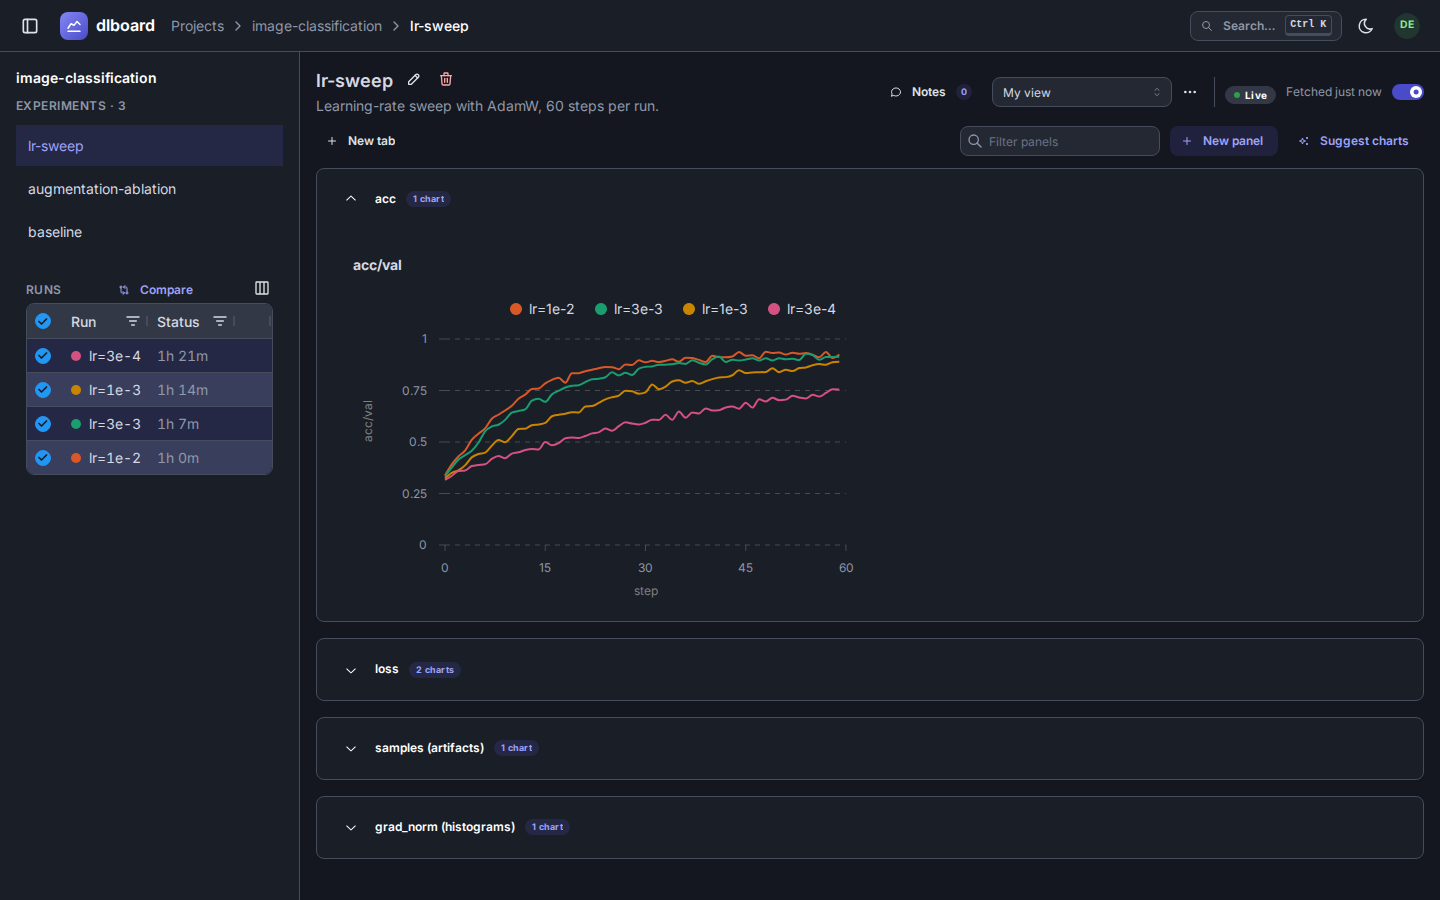
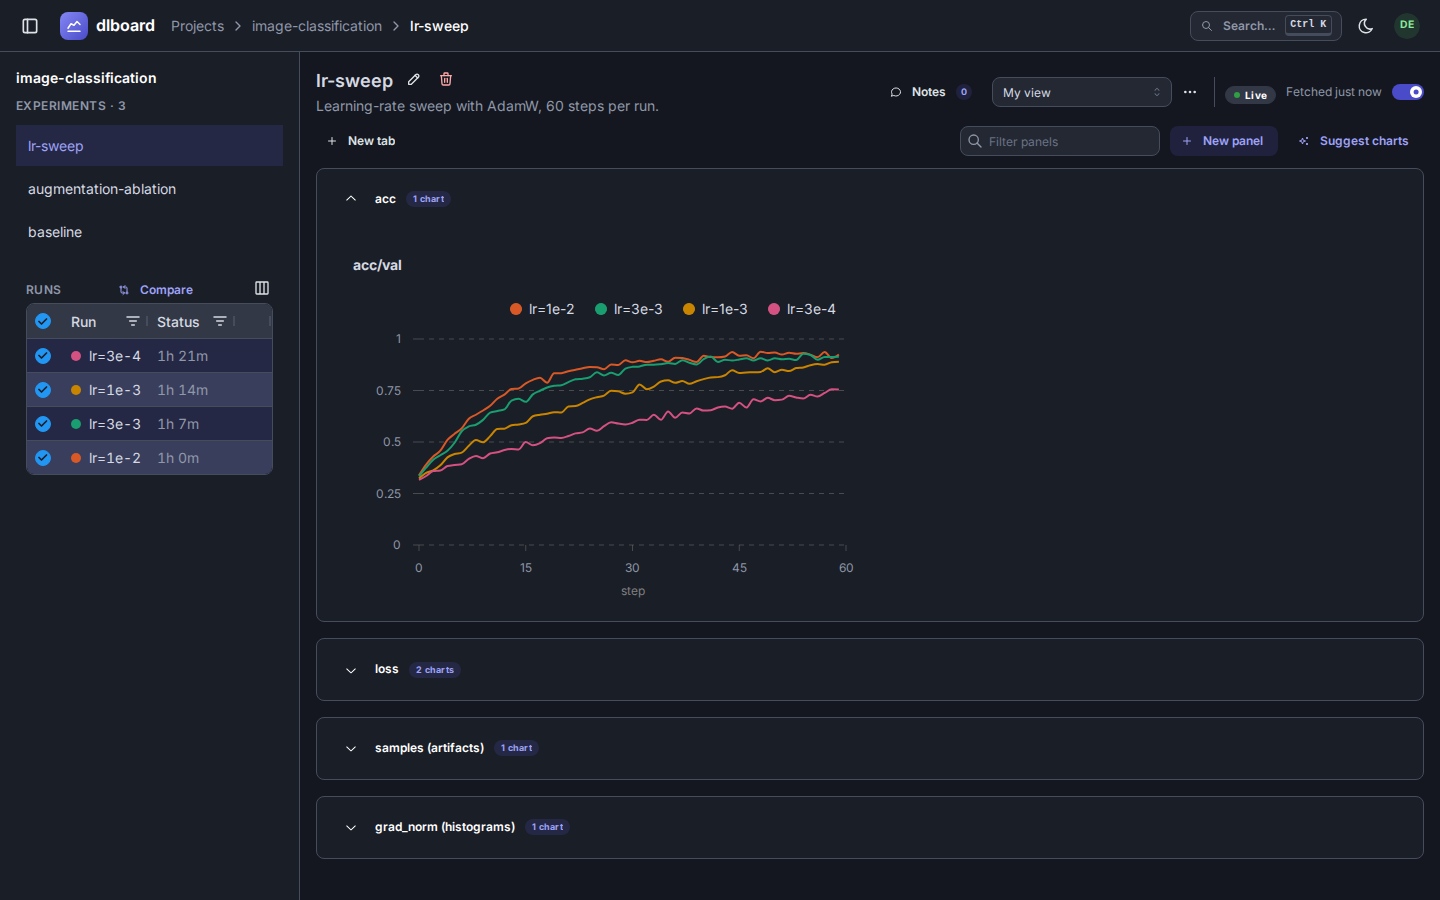
Drop the y-axis label from line and bar charts, and the room made for it
Closes #379.

A chart's heading already names its metric, so the rotated y-axis label repeated it while costing the plot
room twice: the value axis was 72px wide to fit ticks beside the title, and the left margin was 20px for the
same reason. The axis now shows only its values, 56px wide, and the left margin is 10px.

A bar chart's label also said how its values were grouped (`median(loss)`), which its heading did not, so
the heading now carries it. The x-axis title is unchanged, and `max_axis_label_chars` still limits it.

The three docs screenshots that show a line chart are re-rendered.

Changed region(s): [[0.25, 0.3733, 0.5625, 0.56], [0.4375, 0.6222, 0.4688, 0.6844], [0.5, 0.6222, 0.5312, 0.6533]]

diff --git a/dlboard/plugins/charts/line_chart_tooltip.js b/dlboard/plugins/charts/line_chart_tooltip.js
@@ -102,7 +102,7 @@ window.dashMantineFunctions.lineChartDateTick = (value) => new Date(value).toLoc
 window.dashMantineFunctions.lineChartTimeTick = (value) => dlboardFormatDuration(value);
 
 // A y-axis tick: four significant digits at most (float noise like 0.30000000000000004 is what
-// pushed ticks into the rotated axis title), exponent form for the very small and very large.
+// made ticks wider than the axis), exponent form for the very small and very large.
 window.dashMantineFunctions.lineChartValueTick = (value) => {
     if (typeof value !== "number" || !Number.isFinite(value)) {
         return String(value);

diff --git a/dlboard/plugins/charts/tests/charts_test.py b/dlboard/plugins/charts/tests/charts_test.py
@@ -496,7 +496,7 @@ def test_bar_chart_series_and_labels() -> None:
     chart = BarChart.render(BarChartSettings(column="accuracy", x_axis="hidden_size"), df)
     props = _props(chart)
     assert props["series"] == [{"name": "accuracy", "label": "accuracy", "color": "var(--dl-series-1)"}]
-    assert props["yAxisLabel"] == "mean(accuracy)"
+    assert "yAxisLabel" not in props
 
 
 def test_bar_chart_x_axis_is_categorical() -> None:
@@ -516,7 +516,7 @@ def test_bar_chart_vertical_orientation_flips_category_axis_and_labels() -> None
     assert props["xAxisProps"] == {}
     assert props["yAxisProps"] == {"type": "category"}
     assert props["xAxisLabel"] == "mean(accuracy)"
-    assert props["yAxisLabel"] == "hidden_size"
+    assert "yAxisLabel" not in props
 
 
 def test_bar_chart_syncs_by_value_not_index() -> None:
@@ -552,14 +552,15 @@ LONG_METRIC = "DeviceStatsMonitor.on_test_batch_end/active.all.allocated"
 
 
 @pytest.mark.parametrize("limit", [MIN_MAX_AXIS_LABEL_CHARS, 20, DEFAULT_MAX_AXIS_LABEL_CHARS])
-def test_line_chart_shortens_a_long_metric_name_to_the_chosen_axis_title_length(limit: int) -> None:
-    df = _metrics_df(20, n_runs=1).rename(columns={"loss": LONG_METRIC})
+def test_line_chart_shortens_a_long_x_axis_name_to_the_chosen_axis_title_length(limit: int) -> None:
+    df = _metrics_df(20, n_runs=1)
+    df[LONG_METRIC] = df["step"]
 
     chart = LineChart.render(
-        LineChartSettings(column=LONG_METRIC, x_axis="step", max_axis_label_chars=limit), df
+        LineChartSettings(column="loss", x_axis=LONG_METRIC, max_axis_label_chars=limit), df
     )
 
-    label = _props(chart)["yAxisLabel"]
+    label = _props(chart)["xAxisLabel"]
     assert label.startswith("…")
     assert len(label) == limit
     assert LONG_METRIC.endswith(label.removeprefix("…"))  # pyrefly: ignore [unknown-argument-type]
@@ -570,10 +571,13 @@ def test_bar_chart_shortens_a_long_metric_name_inside_its_aggregation_label(limi
     df = _hparam_grouped_df({1: 128}, {1: [0.8]}).rename(columns={"accuracy": LONG_METRIC})
 
     chart = BarChart.render(
-        BarChartSettings(column=LONG_METRIC, x_axis="hidden_size", max_axis_label_chars=limit), df
+        BarChartSettings(
+            column=LONG_METRIC, x_axis="hidden_size", orientation="vertical", max_axis_label_chars=limit
+        ),
+        df,
     )
 
-    label = _props(chart)["yAxisLabel"]
+    label = _props(chart)["xAxisLabel"]
     assert label.startswith("mean(…")
     assert label.endswith(")")
     assert len(label) == limit
@@ -587,27 +591,22 @@ def test_an_axis_title_limit_too_small_to_keep_a_name_recognizable_is_rejected(
         settings(column="loss", x_axis="step", max_axis_label_chars=MIN_MAX_AXIS_LABEL_CHARS - 1)
 
 
-def test_line_chart_gives_its_value_axis_room_for_ticks_beside_the_title() -> None:
+def test_line_chart_gives_its_value_axis_room_for_ticks_and_no_title_of_its_own() -> None:
     chart = LineChart.render(LineChartSettings(column="loss", x_axis="step"), _metrics_df(5))
 
+    assert "yAxisLabel" not in _props(chart)
     y_axis = _props(chart)["yAxisProps"]
     assert y_axis["width"] == VALUE_AXIS_WIDTH
     js_source = Path(line_chart.__file__).with_name("line_chart_tooltip.js").read_text()
     assert f"window.dashMantineFunctions.{y_axis['tickFormatter']['function']} =" in js_source
 
 
-def test_line_chart_tooltip_is_titled_with_the_whole_metric_name_even_when_its_axis_title_is_shortened() -> (
-    None
-):
+def test_line_chart_tooltip_is_titled_with_the_whole_metric_name() -> None:
     df = _metrics_df(20, n_runs=1).rename(columns={"loss": LONG_METRIC})
 
-    chart = LineChart.render(
-        LineChartSettings(column=LONG_METRIC, x_axis="step", max_axis_label_chars=MIN_MAX_AXIS_LABEL_CHARS),
-        df,
-    )
+    chart = LineChart.render(LineChartSettings(column=LONG_METRIC, x_axis="step"), df)
 
     assert _props(chart)["tooltipProps"]["chartTitle"] == LONG_METRIC
-    assert _props(chart)["yAxisLabel"] != LONG_METRIC
 
 
 @pytest.mark.parametrize(("orientation", "gets_room_for_ticks"), [("horizontal", True), ("vertical", False)])
@@ -635,13 +634,17 @@ def _bar(df: pd.DataFrame) -> dmc.Stack:
     return BarChart.render(BarChartSettings(column=LONG_METRIC, x_axis="step"), df)
 
 
-@pytest.mark.parametrize("render", [_line, _bar], ids=["line", "bar"])
+@pytest.mark.parametrize(
+    ("render", "expected"),
+    [(_line, LONG_METRIC), (_bar, f"mean({LONG_METRIC})")],
+    ids=["line", "bar"],
+)
 def test_a_metric_chart_is_titled_with_its_full_metric_name(
-    render: Callable[[pd.DataFrame], dmc.Stack],
+    render: Callable[[pd.DataFrame], dmc.Stack], expected: str
 ) -> None:
-    """The axis titles are shortened to fit; the heading above the plot carries the whole name."""
+    """The value axis has no title of its own: the heading above the plot names the whole metric (and a bar's aggregation)."""
     df = _metrics_df(3, n_runs=1).rename(columns={"loss": LONG_METRIC})
 
     title, _ = props(render(df))["children"]
 
-    assert props(title)["children"] == LONG_METRIC
+    assert props(title)["children"] == expected

diff --git a/dlboard/plugins/charts/bar_chart.py b/dlboard/plugins/charts/bar_chart.py
@@ -172,11 +172,6 @@ class BarChart(ChartType[BarChartSettings, pd.DataFrame, dmc.Stack], frozen=True
             if parameters.orientation == "horizontal"
             else value_label
         )
-        y_axis_label = (
-            value_label
-            if parameters.orientation == "horizontal"
-            else fit_axis_label(parameters.x_axis, parameters.max_axis_label_chars)
-        )
 
         plot = dmc.BarChart(
             h=parameters.height,
@@ -192,7 +187,6 @@ class BarChart(ChartType[BarChartSettings, pd.DataFrame, dmc.Stack], frozen=True
             ],
             orientation=parameters.orientation,
             xAxisLabel=x_axis_label,
-            yAxisLabel=y_axis_label,
             xAxisProps=x_axis_props,
             yAxisProps=y_axis_props,
             withLegend=False,
@@ -223,16 +217,15 @@ class BarChart(ChartType[BarChartSettings, pd.DataFrame, dmc.Stack], frozen=True
             # loss-by-hidden-size) by x-axis value rather than array index, so their tooltips
             # line up even if one chart is missing a group the other has.
             #
-            # Recharts' default left margin is too tight for a rotated y-axis label plus its
-            # ticks, so the label crowds the plot area (and the next chart over, once several sit
-            # side by side); widen it and give the other edges matching breathing room.
+            # Recharts' default margins are too tight for the ticks at the edges, which crowd the plot area
+            # (and the next chart over, once several sit side by side); give every edge breathing room.
             barChartProps={
                 "syncId": parameters.x_axis,
                 "syncMethod": "value",
-                "margin": {"left": 20, "right": 20, "top": 10, "bottom": 10},
+                "margin": {"left": 10, "right": 20, "top": 10, "bottom": 10},
             },
         )
-        return titled(parameters.column, plot)
+        return titled(f"{parameters.aggregation}({parameters.column})", plot)
 
     @classmethod
     @typing.override

diff --git a/dlboard/plugins/charts/line_chart.py b/dlboard/plugins/charts/line_chart.py
@@ -222,7 +222,6 @@ class LineChart(ChartType[LineChartSettings, pd.DataFrame, dmc.Stack], frozen=Tr
             dataKey=parameters.x_axis,
             series=series,  # pyrefly: ignore [bad-argument-type]
             xAxisLabel=fit_axis_label(parameters.x_axis, parameters.max_axis_label_chars),
-            yAxisLabel=fit_axis_label(parameters.column, parameters.max_axis_label_chars),
             xAxisProps=x_axis_props,
             yAxisProps={"width": VALUE_AXIS_WIDTH, "tickFormatter": {"function": "lineChartValueTick"}},
             withLegend=True,
@@ -264,13 +263,12 @@ class LineChart(ChartType[LineChartSettings, pd.DataFrame, dmc.Stack], frozen=Tr
             # sampled at different rates) don't share row counts, so index-based
             # sync (Recharts' default) lines up the wrong points across charts.
             #
-            # Recharts' default left margin is too tight for a rotated y-axis label plus its
-            # ticks, so the label crowds the plot area (and the next chart over, once several
-            # sit side by side); widen it and give the other edges matching breathing room.
+            # Recharts' default margins are too tight for the ticks at the edges, which crowd the plot area
+            # (and the next chart over, once several sit side by side); give every edge breathing room.
             lineChartProps={
                 "syncId": parameters.x_axis,
                 "syncMethod": "value",
-                "margin": {"left": 20, "right": 20, "top": 10, "bottom": 10},
+                "margin": {"left": 10, "right": 20, "top": 10, "bottom": 10},
             },
         )
         return titled(parameters.column, plot)

diff --git a/dlboard/plugins/charts/_axis_label.py b/dlboard/plugins/charts/_axis_label.py
@@ -8,14 +8,14 @@ from pydantic import Field
 
 DEFAULT_MAX_AXIS_LABEL_CHARS: Final = 36
 """
-Roughly what fits along a default-height (300px) chart's rotated y-axis title -- the one that can
-run out of room. A longer one is drawn past the chart's own area, over whatever is next to it.
+Roughly what fits along a default-width chart's x-axis title. A longer one is drawn past the chart's own area,
+over whatever is next to it.
 """
 
-VALUE_AXIS_WIDTH: Final = 72
+VALUE_AXIS_WIDTH: Final = 56
 """
-Width in px of a chart's value (y) axis: room for its tick labels *and* the rotated title beside them.
-Recharts' default is narrower than a long tick and the title together, so they were drawn over each other.
+Width in px of a chart's value (y) axis: room for its tick labels, which the chart's title names.
+Recharts' default is narrower than a long tick (`-1.2e-5`), so it was drawn over the plot.
 """
 
 MIN_MAX_AXIS_LABEL_CHARS: Final = 12

diff --git a/CHANGELOG.md b/CHANGELOG.md
@@ -14,6 +14,12 @@ pulls that section's body into the GitHub release notes and publishes both distr
 
 ### Changed
 
+* **A line or bar chart no longer has a y-axis label**: its heading already names the metric, so the axis shows only its
+  values and the plot gets the room the label took. A bar chart's heading now says how its values are grouped
+  (`median(loss)`), which the label used to.
+* **The experiment page makes two fewer requests when it loads.** The run table reported its own mount as a change of
+  selection to the server, twice, and the server answered that nothing had changed; the browser now compares the
+  selection with the runs drawn and asks only when they differ.
 * **The experiment page no longer reads everything that was logged to show what it summarizes.** The lists of
   metrics and artifacts, where each run ended up, and a bar chart or a table with a row per run used to cost more with
   every step a run trained (and the lists, with every experiment in the database). In a Postgres with 3.6M metric rows
@@ -24,12 +30,13 @@ pulls that section's body into the GitHub release notes and publishes both distr
     as the histogram table already was; the old ones led with `key`, so every read of one experiment scanned every
     experiment's rows. The new ones are narrower than the old, so the database gets smaller. Runs and
     hyperparameters are indexed by experiment too (hyperparameters had no index, so every page scanned every
-    experiment's). **Starting the server after upgrading rebuilds them** (migration 0004): rebuilding the metric and
-    artifact indexes holds a lock that blocks reads and writes of those tables until it commits, and creating the run
-    and hyperparameter indexes blocks writes to theirs. On a database with many millions of metric rows that takes a
-    while, so upgrade at a quiet moment. A server still running the old version keeps working against the upgraded
-    database during a rolling upgrade, only reading as slowly as it did (as with every migration, one that is stopped
-    cannot be started again on it).
+    experiment's), and each per-step table is indexed by run too, so deleting or purging a run no longer scans them.
+    **Starting the server after upgrading builds them** (migration 0004): on Postgres it builds each new index before
+    dropping the one it replaces, so reads of the metric and artifact tables wait only for the swap at the end, but
+    writes to a table (a run logging metrics) wait while its indexes are built. On a database with many millions of
+    metric rows the builds take a while, so upgrade at a quiet moment. A server still running the old version keeps
+    working against the upgraded database during a rolling upgrade, only reading as slowly as it did (as with every
+    migration, one that is stopped cannot be started again on it).
   * **Which keys an experiment logged**, whether a metric is logged once per run, and the latest artifact of each key are
     found by hopping through the index from key to key, not by counting and sorting every row. Whether a metric is
     logged once per run is judged on the newest 100 runs, and the column catalog's hyperparameter keys are read from
